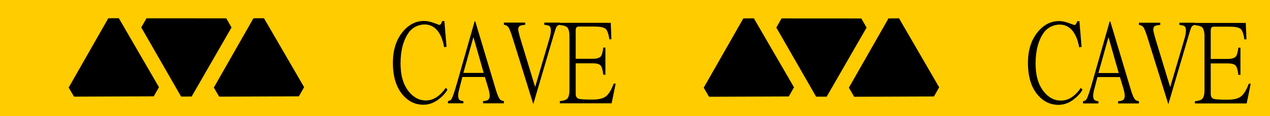
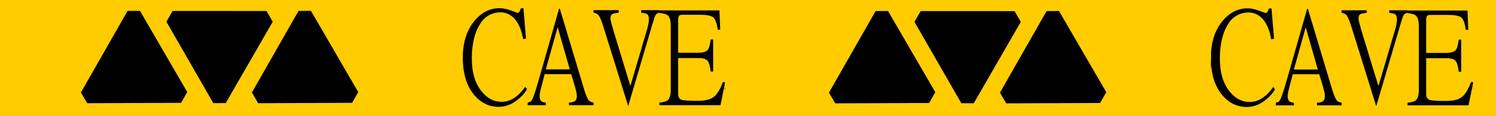
feat: caution-only tapes, centered and tightened artwork
Lay only the CAUTION tape (cave/achtung tiles stay on disk, gated behind
ACTIVE_NAMES so they are easy to bring back). Re-center the word inside each
tape and crop the blank margins from ~36/22 to 14/14px so the text fills the
strip; regenerate the per-device tiles at the new canvas heights.

diff --git a/script.js b/script.js
@@ -28,10 +28,14 @@ const MAX_SEGMENT_DEVICE_PX = 1024;  // longest moving piece; see makeTape
 // decodes, and holds in memory, more image than it can show.
 const TILE_HEIGHTS = [58, 87, 116, 174];  // plus each tile's full height
 const TILES = [
-  { name: "cave", w: 2541, h: 232 },
-  { name: "achtung", w: 2702, h: 233 },
-  { name: "caution", w: 2702, h: 232 },
+  { name: "cave", w: 2541, h: 197 },
+  { name: "achtung", w: 2702, h: 196 },
+  { name: "caution", w: 2702, h: 198 },
 ];
+// Which tapes are actually laid. cave/achtung tiles stay on disk; add their
+// names back here to bring them into the field again.
+const ACTIVE_NAMES = ["caution"];
+const ACTIVE_TILES = TILES.filter((t) => ACTIVE_NAMES.includes(t.name));
 
 // Tape thickness in CSS px before the per-tape 0.8-1.2x variation.
 const baseHeight = (vw) => Math.max(MIN_HEIGHT_PX, (HEIGHT_VW / 100) * vw);
@@ -47,7 +51,7 @@ const tileSrc = (tile) => `graphics/tile-${tile.name}-${tileHeight(tile)}.png`;
 // Cached per URL, so a resize that keeps the same height doesn't reload.
 const decoded = new Map();
 function tilesReady() {
-  return Promise.all(TILES.map((tile) => {
+  return Promise.all(ACTIVE_TILES.map((tile) => {
     const src = tileSrc(tile);
     if (!decoded.has(src)) {
       const img = new Image();
@@ -139,7 +143,7 @@ function buildTapes(field) {
   const maxAngle = MAX_ANGLE_DEG * Math.PI / 180;
   const hole = holeBox();
   const frag = document.createDocumentFragment();
-  const pickTile = () => TILES[Math.floor(rand() * TILES.length)];
+  const pickTile = () => ACTIVE_TILES[Math.floor(rand() * ACTIVE_TILES.length)];
   const pickHeight = () => baseH * (0.8 + rand() * 0.4);
 
   // 1. Frame: spread the tapes' outward normals evenly around the circle, so
